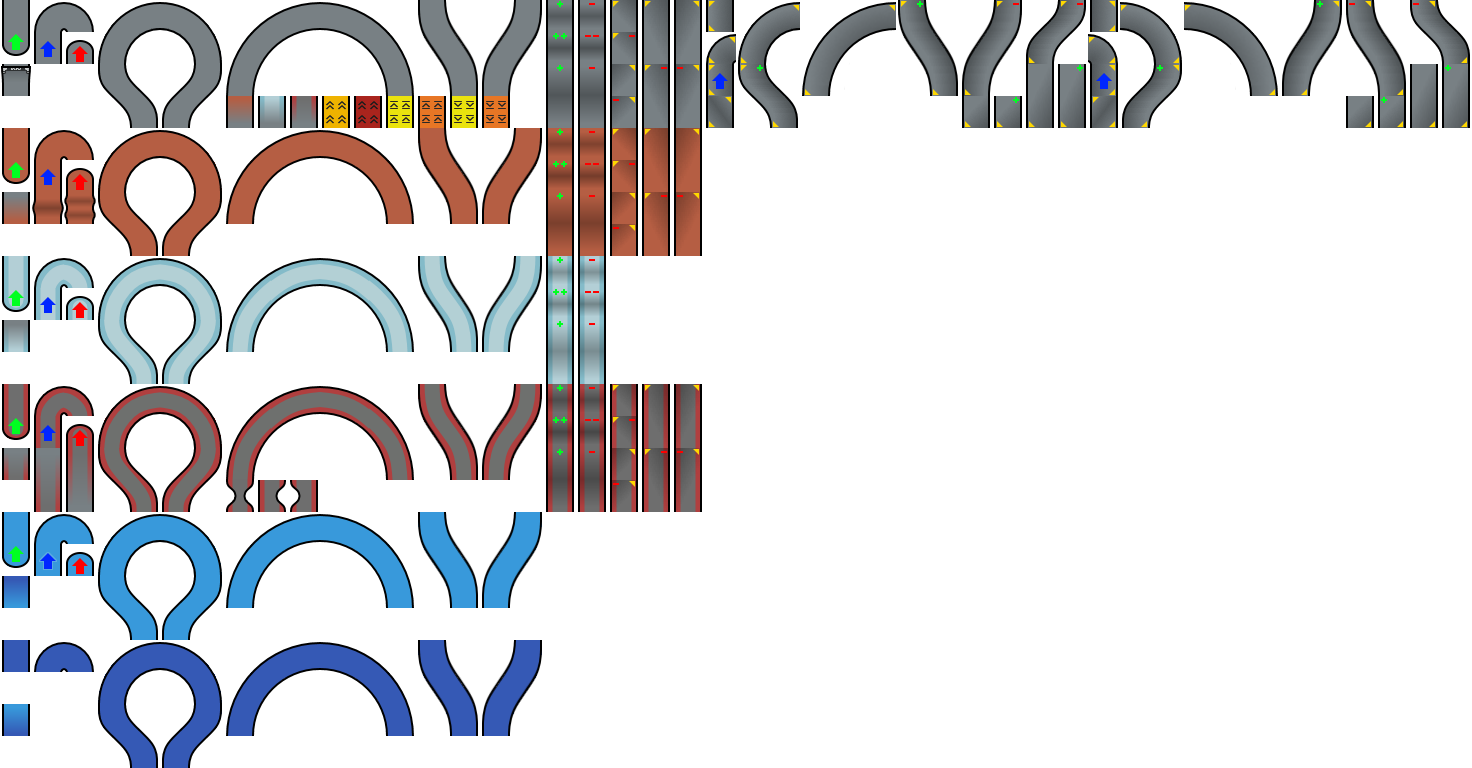
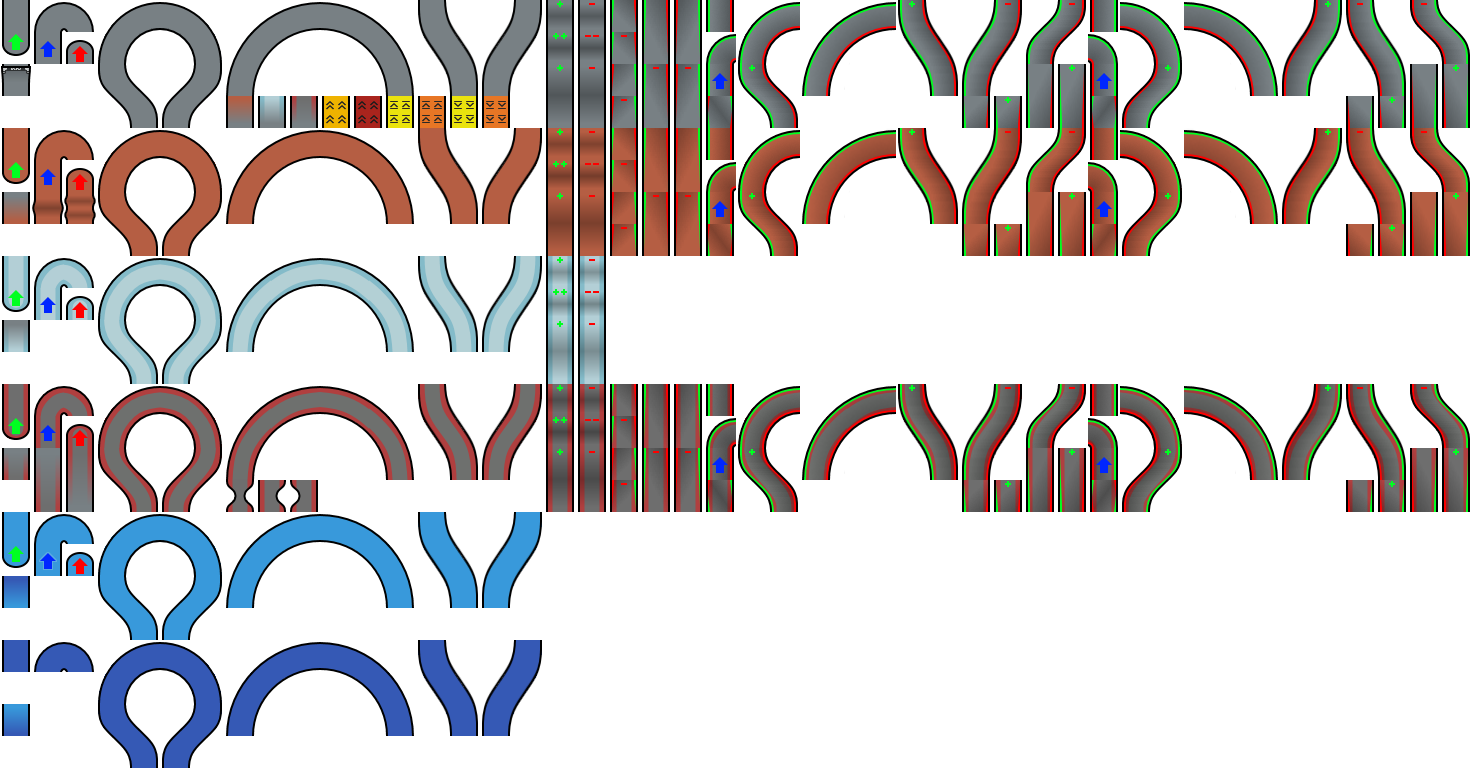
Improved banked visuals. Added dirt/sausage banks

diff --git a/piecetypes.js b/piecetypes.js
@@ -819,6 +819,14 @@ let InitialisePieceTypes = function()
 	CreatePieceTypesFromTemplate(gBankedPieceTemplates, "roadBankRight", new Vector2D(0, 0), undefined, 0, "road");
 	CreatePieceTypesFromTemplate(gBankedPieceTemplates, "roadBankLeft", new Vector2D(384, 0), undefined, 0, "road", true);
 
+	CreatePieceTypesFromTemplate(gBankTransitionPieceTemplates, "dirtFlat", new Vector2D(0, 128), undefined, 0, "dirt");
+	CreatePieceTypesFromTemplate(gBankedPieceTemplates, "dirtBankRight", new Vector2D(0, 128), undefined, 0, "dirt");
+	CreatePieceTypesFromTemplate(gBankedPieceTemplates, "dirtBankLeft", new Vector2D(384, 128), undefined, 0, "dirt", true);
+
+	CreatePieceTypesFromTemplate(gBankTransitionPieceTemplates, "sausageFlat", new Vector2D(0, 384), undefined, 0, "sausage");
+	CreatePieceTypesFromTemplate(gBankedPieceTemplates, "sausageBankRight", new Vector2D(0, 384), undefined, 0, "sausage");
+	CreatePieceTypesFromTemplate(gBankedPieceTemplates, "sausageBankLeft", new Vector2D(384, 384), undefined, 0, "sausage", true);
+
 	//Special-case transitions.
 	ModifyPieceTypeProperty("roadFlat", "transitionTo", { material: "waterShallow", probability: 0.025 }, [ "ramp" ]);
 	ModifyPieceTypeProperty("waterShallow", "transitionTo", { material: "roadFlat", probability: 0.25 }, [ "ramp" ]);
